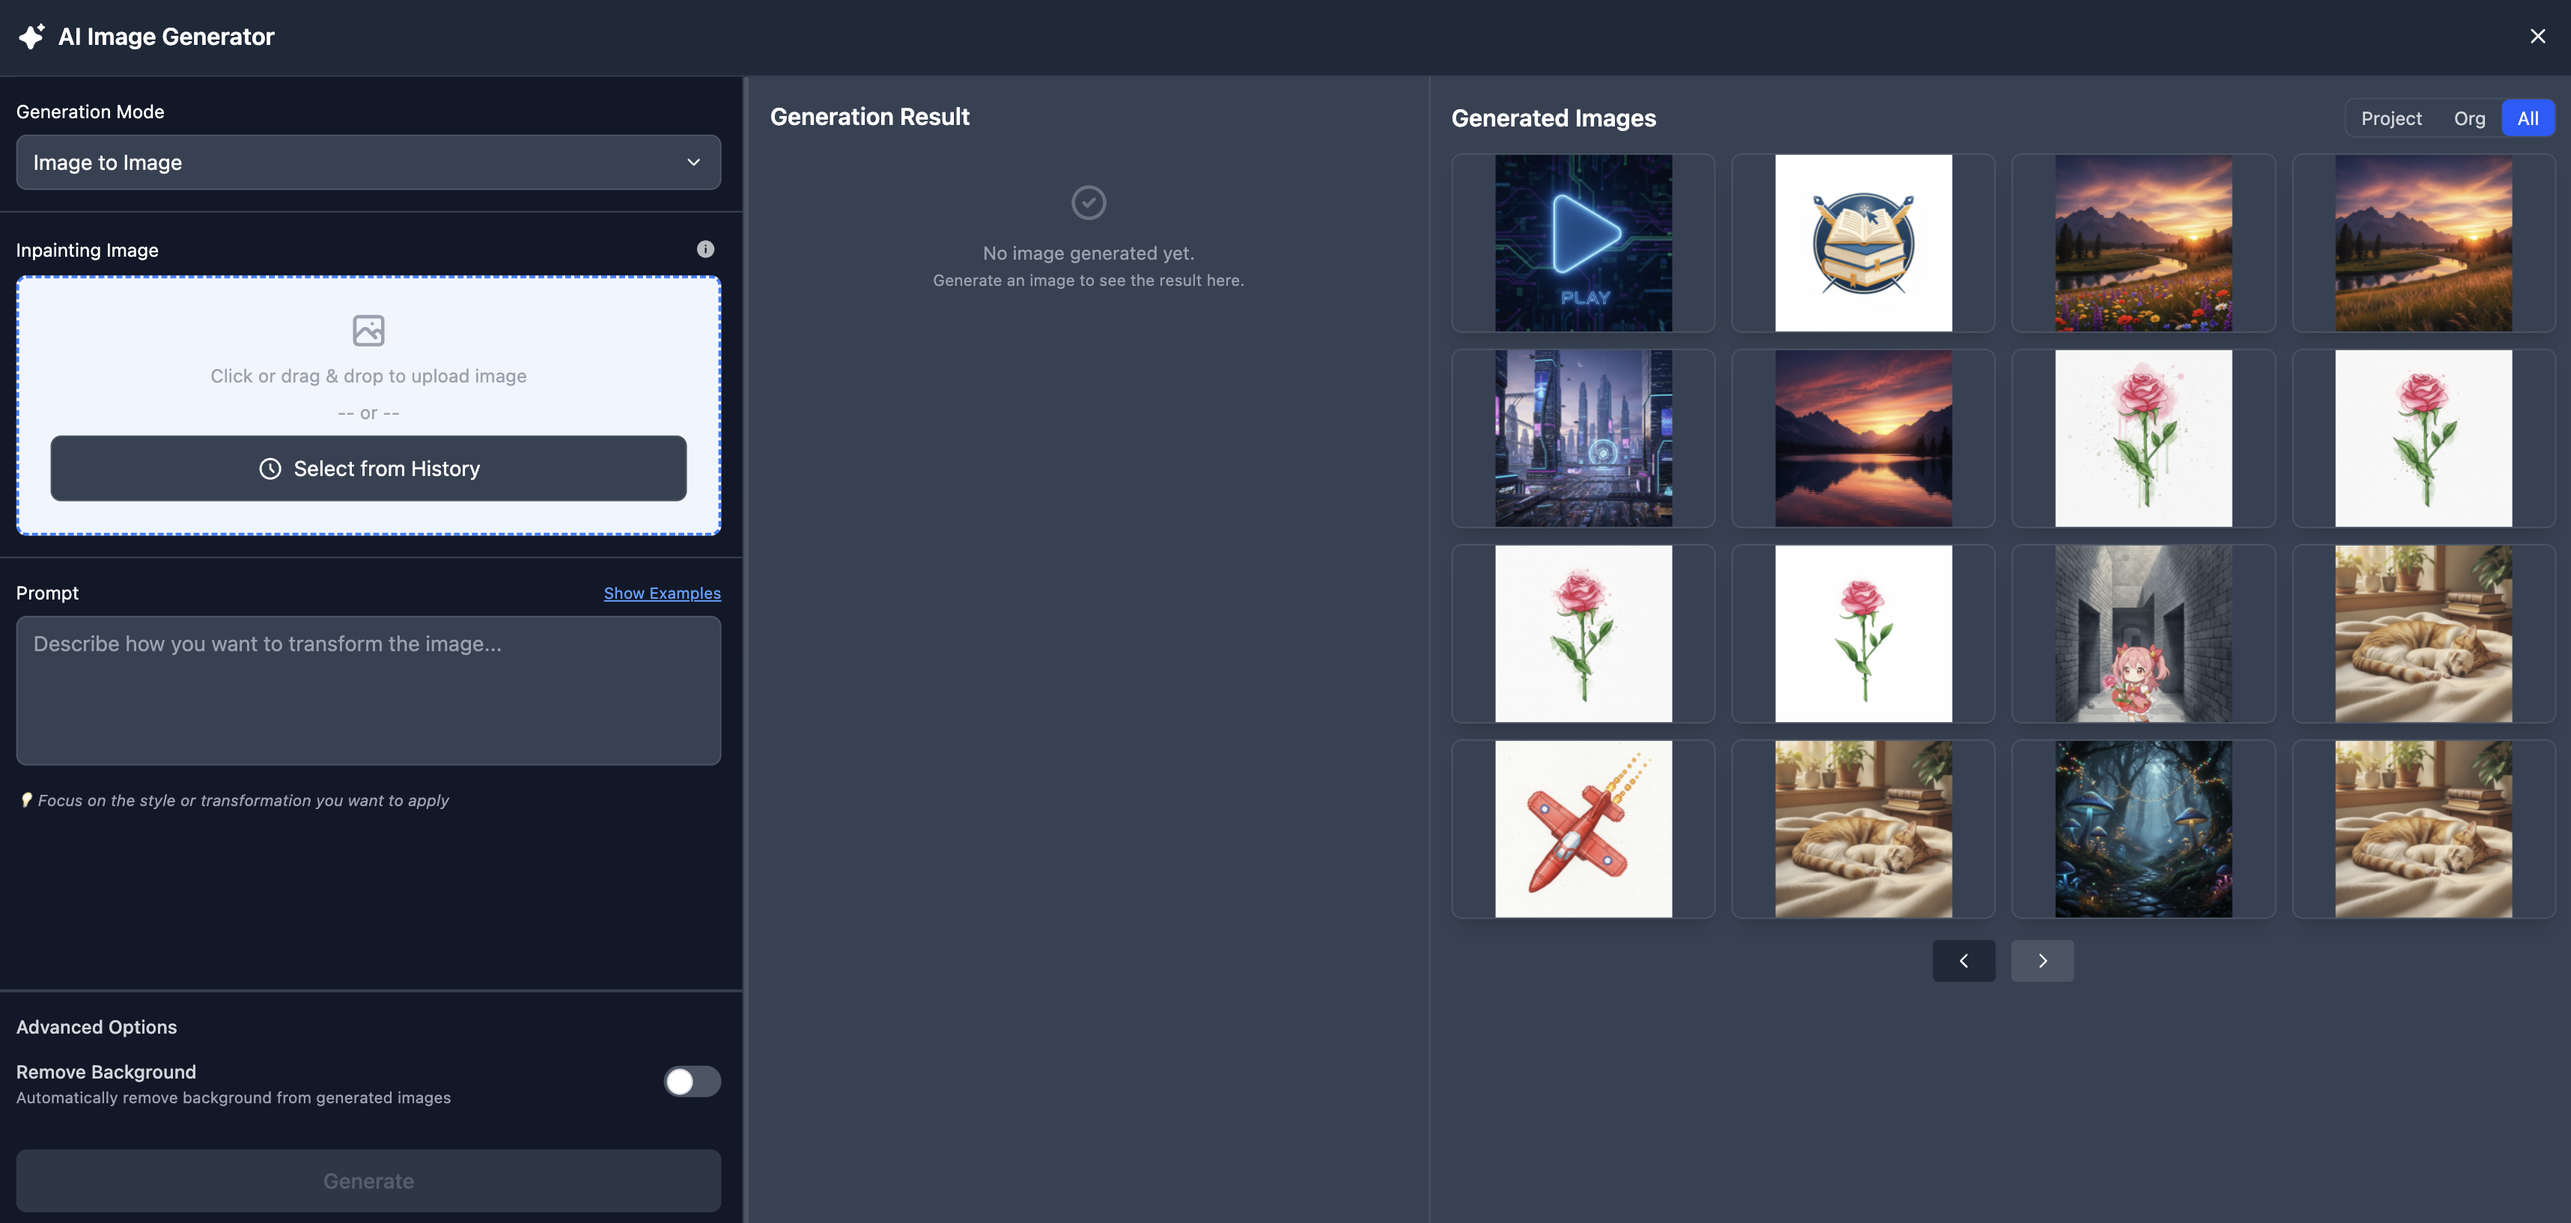
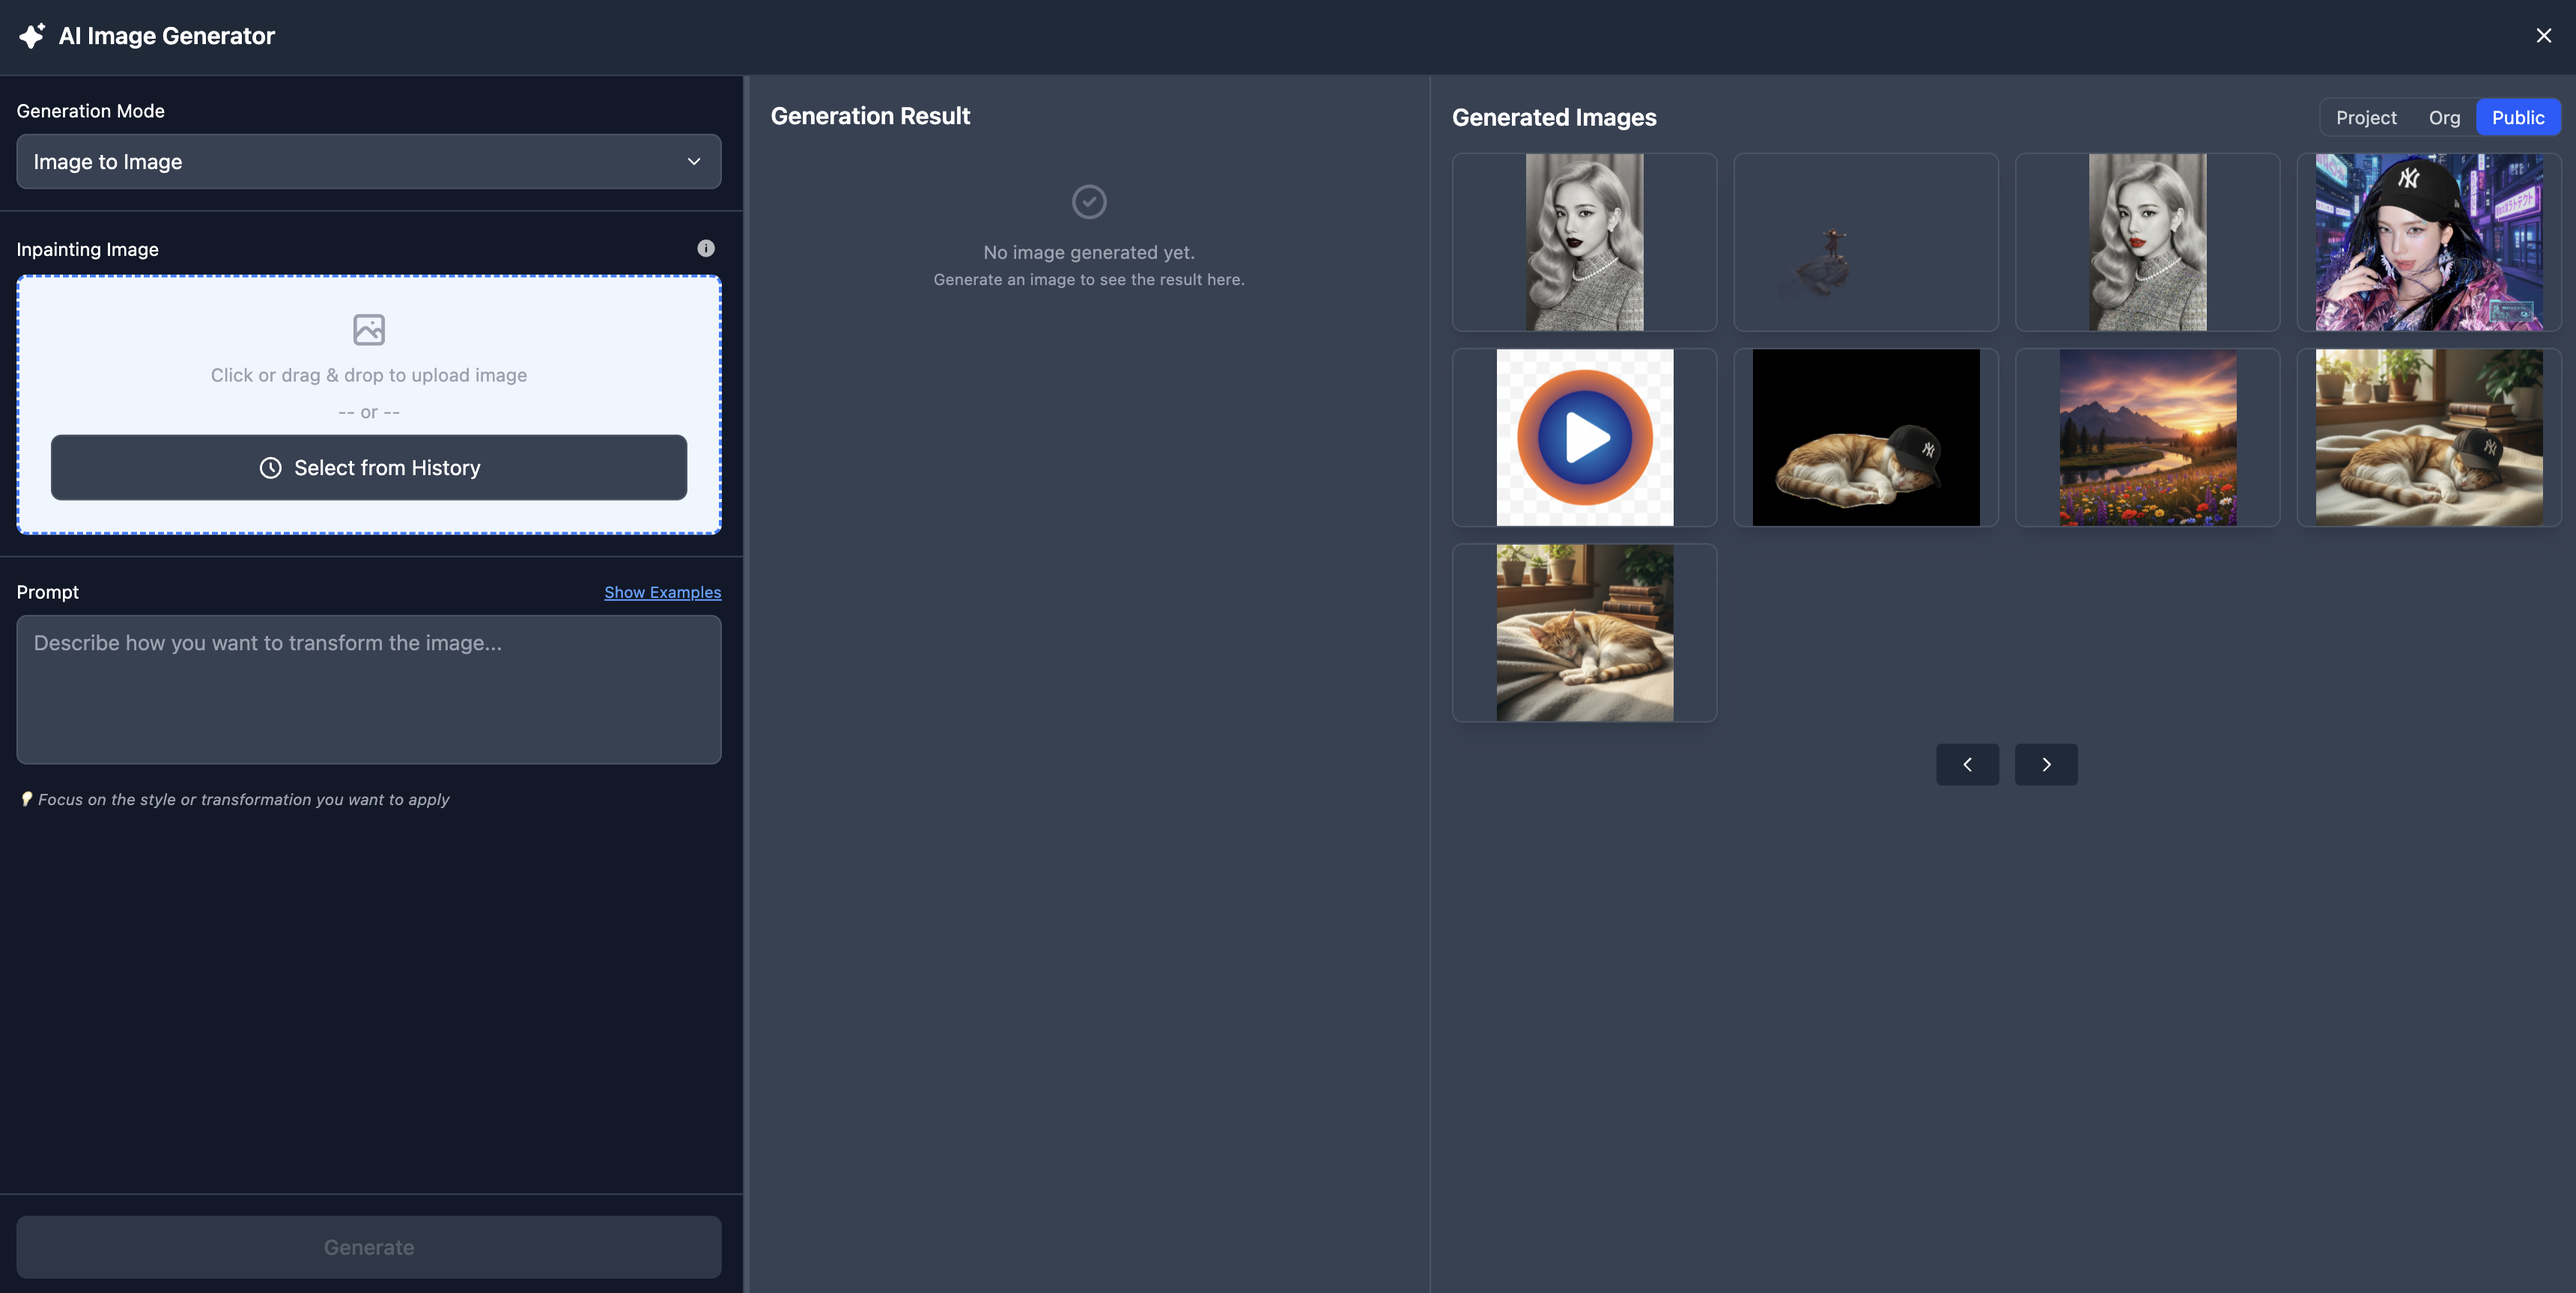
fix: image-generation 변경 내용 적용

diff --git a/i18n/en/docusaurus-plugin-content-docs/current/usage-guide/image-generation.md b/i18n/en/docusaurus-plugin-content-docs/current/usage-guide/image-generation.md
@@ -6,76 +6,87 @@ sidebar_label: Image Generation
 
 # Image Generation
 
-Learn step-by-step how to generate images needed for your project using OasisW's AI image generation feature.
-
+Learn how to use OasisW's AI image generation feature to create images for your project step by step.
 
 ## 1. Interface
 
-Click the **AI Image Generation button**. 
+Click the **AI Image Generation button**.
 
 ![Image](/img/usage-guide/3_8.png)
 
 ![Image](/img/usage-guide/3_8_1.png)
 
-### 1. Generation Mode
+### Generation Mode
 ![Image](/img/usage-guide/3_8_2.png)
-* **Text to Image**: Generate images by entering text in the prompt.
+* **Text to Image**: Generate images by entering text prompts.
 * **Image to Image**: Generate new images based on existing images.
-### 2. Prompt
-* **Show Examples**: Click on various example prompts to use them.
+* **Remove Background**: Remove the background from images.
+### Prompt
+* **Show Examples**: Click on example prompts to use them.
 ![Image](/img/usage-guide/3_8_3.png)
-### 3. Advanced Options
-* **Remove Background**: Generate images without background.
-### 4. Generate 
-Generates the image.
-### 5. Generation Result
-You can view the generated image.
-### 6. Generated Images
+### Generation Result
+View the generated images.
+### Generated Images
 * **Project**: View images generated in this project.
 * **Org**: View images generated in the current organization.
-* **All**: View images with public settings.
+* **Public**: View publicly available images.
 
 ![Image](/img/usage-guide/3_8_5.png)
-* **1. Edit Asset Properties**: You can modify asset settings.
+* **1. Edit Asset Properties**: Modify asset settings.
 ![Image](/img/usage-guide/3_8_6.png)
 * **2. Add to Assets**: Add as texture asset.
 
 ## 2. Text to Image
 
-1. Enter the desired command in the prompt window.
+1. Enter your desired command in the prompt field.
    - You can select from examples in **Show Examples** to generate images.
-   - Check **Remove Background** to generate images without background.
-2. Click the **Generate button** to generate the image.
+2. Click the **Generate button** to create the image.
 
 <div style={{display: 'flex', gap: '10px'}}>
   <img src="/img/usage-guide/3_8_4.png" alt="Image" style={{maxWidth: '50%'}} />
   <img src="/img/usage-guide/3_8_9.png" alt="Image" style={{maxWidth: '50%'}} />
 </div>
 <br />
-3. Click the **Add to Assets button** to add as texture asset.
+3. Click the **Add to Assets button** to add as a texture asset.
 
 ![Image](/img/usage-guide/3_8_10.png)
 ![Image](/img/usage-guide/3_8_11.png)
 
 ## 3. Image to Image
 
-1. Add the desired image to **Inpainting Image**.
+1. Add your desired image to **Inpainting Image**.
 
 ![Image](/img/usage-guide/3_8_14.png)
 
-2. Click the **+ icon** and add images of objects (sunglasses, flowers, hats, etc.) to add to the original image.
+2. Click the **+ icon** and add images of objects (sunglasses, flowers, hats, etc.) that you want to add to the original image.
 <div style={{display: 'flex', gap: '10px'}}>
   <img src="/img/usage-guide/3_8_17.png" alt="Image" style={{maxWidth: '50%'}} />
   <img src="/img/usage-guide/3_8_18.png" alt="Image" style={{maxWidth: '50%'}} />
 </div>
 <br />
 
-* You can change or remove images in **Image Controls**.
+* You can modify or remove images in **Image Controls**.
 
 ![Image](/img/usage-guide/3_8_16.png)
 
-3. Use **Drawing Tools** to mark the location where you want to modify the image on the original image, enter a prompt, and click the **Generate button** to generate the image.
+3. Use **Drawing Tools** to mark the areas where you want to modify the original image, enter a prompt, and click the **Generate button** to create the image.
 
 ![Image](/img/usage-guide/3_8_19.png)
 
+## 4. Remove Background
 
+:::tip
+You can directly access **Remove Background** by double-clicking an image in the asset view.
+:::
+
+Add your desired image to **Background Removal**.
+
+<div style={{display: 'flex', gap: '10px'}}>
+  <img src="/img/usage-guide/3_8_20.png" alt="Image" style={{maxWidth: '50%'}} />
+  <img src="/img/usage-guide/3_8_21.png" alt="Image" style={{maxWidth: '50%'}} />
+</div>
+<br />
+
+Click the **Remove Background button** to generate the image.
+
+![Image](/img/usage-guide/3_8_22.png)
